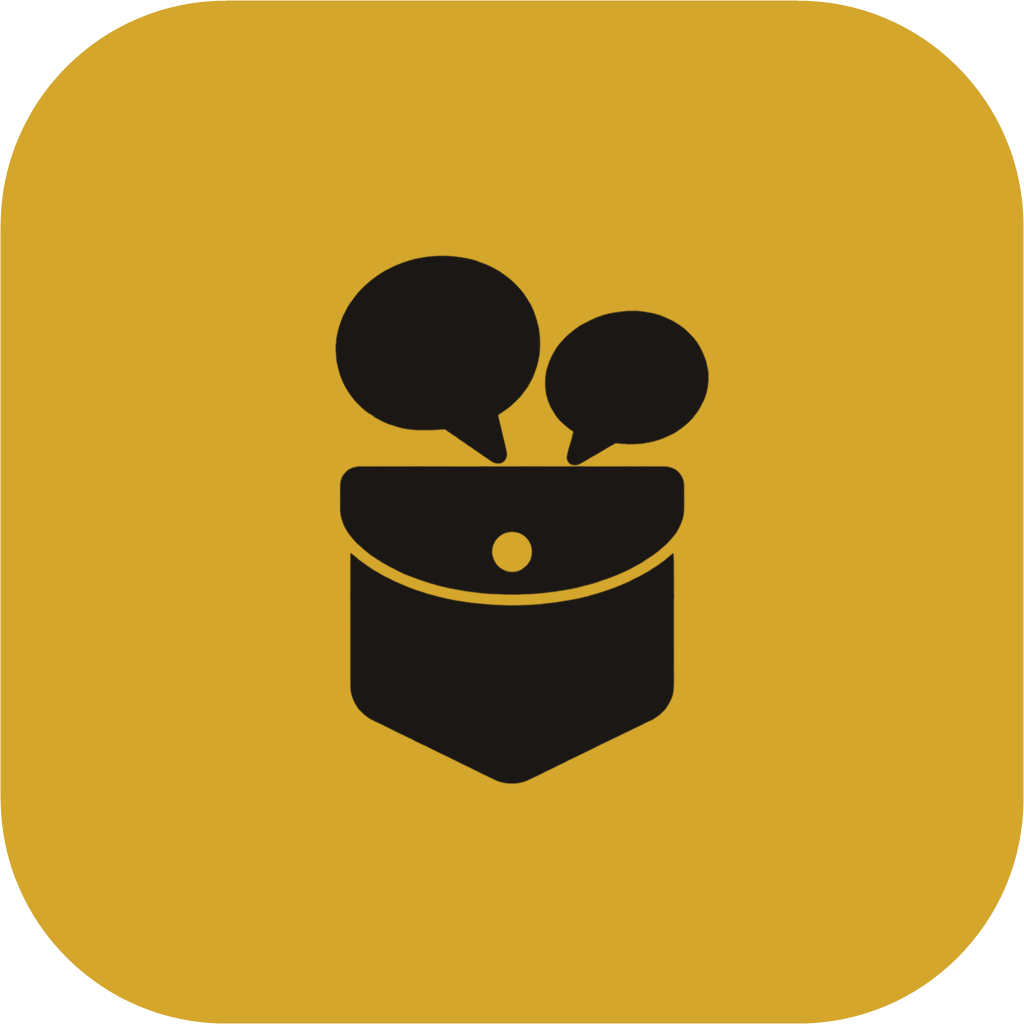
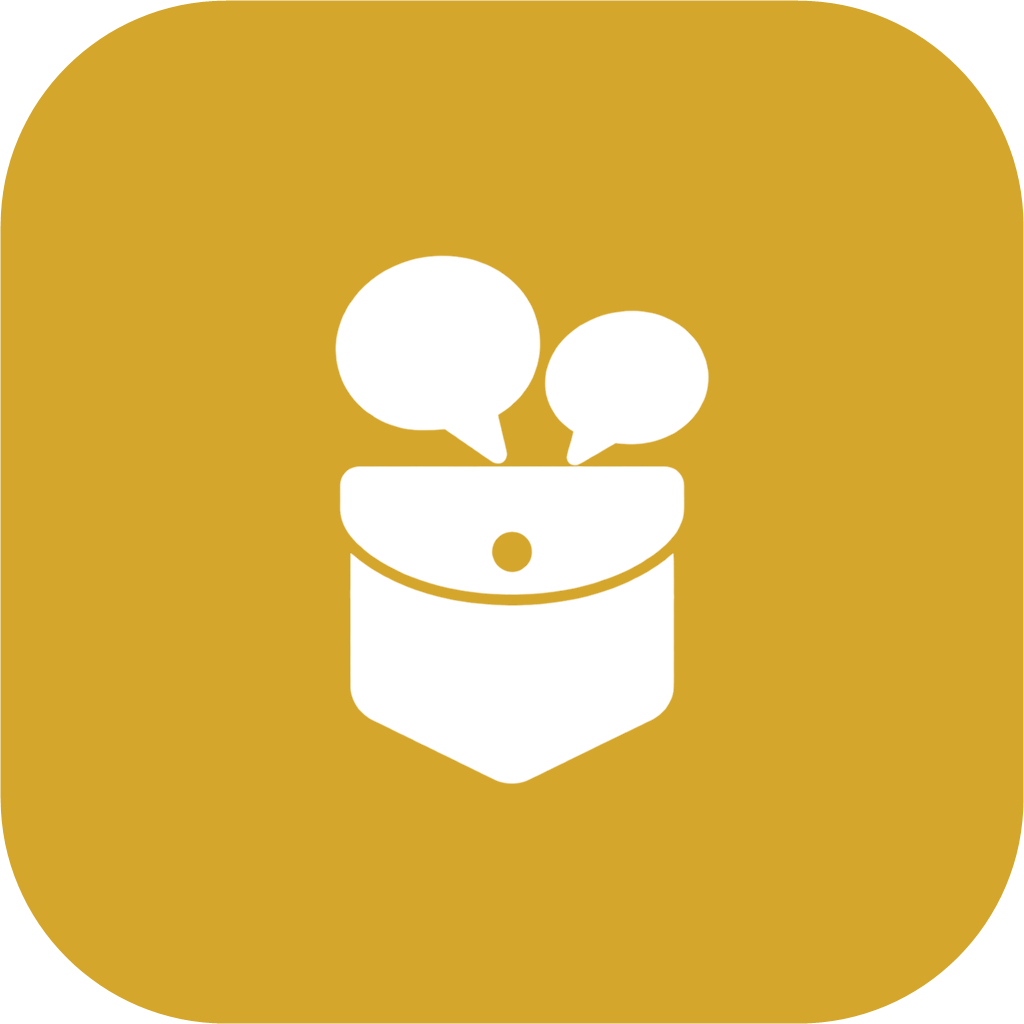
Use the light mark and the real launcher class.
The home icon and cold start stayed on gold because the launcher component was built from the application id. Palette activities live in nie.translator.rtranslator. Every icon now uses the light mark on its palette color.

Changed region(s): [[0.3125, 0.25, 0.7188, 0.7812]]

diff --git a/app/src/main/java/nie/translator/rtranslator/tools/ThemeManager.java b/app/src/main/java/nie/translator/rtranslator/tools/ThemeManager.java
@@ -23,7 +23,6 @@ import android.content.Context;
 import android.content.SharedPreferences;
 import android.content.pm.PackageManager;
 import android.content.res.ColorStateList;
-import android.content.res.Configuration;
 import android.graphics.Bitmap;
 import android.graphics.Canvas;
 import android.graphics.drawable.Drawable;
@@ -73,6 +72,11 @@ public final class ThemeManager {
 
     static final String LAUNCHER_GOLDEN = "LauncherGolden";
     static final String LAUNCHER_GOLDEN_ALT = "LauncherGoldenAlt";
+
+    // Manifest ".Launcher*" names resolve against the namespace, not applicationId.
+    // io.github.maoruiqa.transpocket.LauncherBamboo is not a component, so the home
+    // icon and the cold-start splash stay on the install-time golden activity.
+    static final String LAUNCHER_NAMESPACE = "nie.translator.rtranslator";
 
     // Index 0 is the install-time entry. Its manifest enabled value is true; every other entry is false.
     static final String[] LAUNCHER_CLASSES = new String[]{
@@ -132,7 +136,7 @@ public final class ThemeManager {
         try {
             for (int i = 0; i < LAUNCHER_CLASSES.length; i++) {
                 current[i] = packageManager.getComponentEnabledSetting(
-                        new ComponentName(packageName, packageName + "." + LAUNCHER_CLASSES[i]));
+                        launcherComponent(packageName, LAUNCHER_CLASSES[i]));
             }
         } catch (IllegalArgumentException ignored) {
             // Builds without these launcher activities must keep working; the theme is independent.
@@ -170,12 +174,20 @@ public final class ThemeManager {
     }
 
     /** Class name of the launcher activity for this palette. Must match the manifest component. */
-    public static String launcherClassName(String packageName, String palette) {
-        return launcherClassName(packageName, palette, false);
+    public static String launcherClassName(String palette) {
+        return launcherClassName(palette, false);
     }
 
-    public static String launcherClassName(String packageName, String palette, boolean goldenRetired) {
-        return packageName + "." + launcherSimpleName(palette, goldenRetired);
+    public static String launcherClassName(String palette, boolean goldenRetired) {
+        return LAUNCHER_NAMESPACE + "." + launcherSimpleName(palette, goldenRetired);
+    }
+
+    static String launcherComponentClass(String simpleName) {
+        return LAUNCHER_NAMESPACE + "." + simpleName;
+    }
+
+    static ComponentName launcherComponent(String applicationId, String simpleName) {
+        return new ComponentName(applicationId, launcherComponentClass(simpleName));
     }
 
     static String launcherSimpleName(String palette, boolean goldenRetired) {
@@ -274,7 +286,7 @@ public final class ThemeManager {
         }
         for (int i = 0; i < plan.classNames.length; i++) {
             packageManager.setComponentEnabledSetting(
-                    new ComponentName(packageName, packageName + "." + plan.classNames[i]),
+                    launcherComponent(packageName, plan.classNames[i]),
                     plan.states[i],
                     PackageManager.DONT_KILL_APP);
         }
@@ -287,7 +299,7 @@ public final class ThemeManager {
             ArrayList<PackageManager.ComponentEnabledSetting> settings = new ArrayList<>();
             for (int i = 0; i < plan.classNames.length; i++) {
                 settings.add(new PackageManager.ComponentEnabledSetting(
-                        new ComponentName(packageName, packageName + "." + plan.classNames[i]),
+                        launcherComponent(packageName, plan.classNames[i]),
                         plan.states[i],
                         PackageManager.DONT_KILL_APP));
             }
@@ -398,9 +410,7 @@ public final class ThemeManager {
     }
 
     private static Bitmap taskIconBitmap(Context context, String palette, @DrawableRes int iconRes) {
-        // The same mipmap id resolves to the dark mark or the light mark from uiMode.
-        int night = context.getResources().getConfiguration().uiMode & Configuration.UI_MODE_NIGHT_MASK;
-        String key = normalizePalette(palette) + "@" + context.getResources().getDisplayMetrics().density + "@" + night;
+        String key = normalizePalette(palette) + "@" + context.getResources().getDisplayMetrics().density;
         Bitmap cached = taskIcons.get(key);
         if (cached != null && !cached.isRecycled()) {
             return cached;

diff --git a/app/src/test/java/nie/translator/rtranslator/tools/ThemeManagerTest.java b/app/src/test/java/nie/translator/rtranslator/tools/ThemeManagerTest.java
@@ -51,15 +51,32 @@ public class ThemeManagerTest {
 
     @Test
     public void launcherClassNameMatchesManifestComponents() {
-        String pkg = "nie.translator.rtranslator";
-        assertEquals(pkg + ".LauncherGolden", ThemeManager.launcherClassName(pkg, ThemeManager.PALETTE_GOLDEN));
-        assertEquals(pkg + ".LauncherBamboo", ThemeManager.launcherClassName(pkg, ThemeManager.PALETTE_BAMBOO));
-        assertEquals(pkg + ".LauncherIndigo", ThemeManager.launcherClassName(pkg, ThemeManager.PALETTE_INDIGO));
-        assertEquals(pkg + ".LauncherSakura", ThemeManager.launcherClassName(pkg, ThemeManager.PALETTE_SAKURA));
-        assertEquals(pkg + ".LauncherWisteria", ThemeManager.launcherClassName(pkg, ThemeManager.PALETTE_WISTERIA));
-        assertEquals(pkg + ".LauncherGolden", ThemeManager.launcherClassName(pkg, "autumn_gold"));
-        assertEquals(pkg + ".LauncherGoldenAlt", ThemeManager.launcherClassName(pkg, ThemeManager.PALETTE_GOLDEN, true));
-        assertEquals(pkg + ".LauncherBamboo", ThemeManager.launcherClassName(pkg, ThemeManager.PALETTE_BAMBOO, true));
+        assertEquals("nie.translator.rtranslator.LauncherGolden",
+                ThemeManager.launcherClassName(ThemeManager.PALETTE_GOLDEN));
+        assertEquals("nie.translator.rtranslator.LauncherBamboo",
+                ThemeManager.launcherClassName(ThemeManager.PALETTE_BAMBOO));
+        assertEquals("nie.translator.rtranslator.LauncherIndigo",
+                ThemeManager.launcherClassName(ThemeManager.PALETTE_INDIGO));
+        assertEquals("nie.translator.rtranslator.LauncherSakura",
+                ThemeManager.launcherClassName(ThemeManager.PALETTE_SAKURA));
+        assertEquals("nie.translator.rtranslator.LauncherWisteria",
+                ThemeManager.launcherClassName(ThemeManager.PALETTE_WISTERIA));
+        assertEquals("nie.translator.rtranslator.LauncherGolden",
+                ThemeManager.launcherClassName("autumn_gold"));
+        assertEquals("nie.translator.rtranslator.LauncherGoldenAlt",
+                ThemeManager.launcherClassName(ThemeManager.PALETTE_GOLDEN, true));
+        assertEquals("nie.translator.rtranslator.LauncherBamboo",
+                ThemeManager.launcherClassName(ThemeManager.PALETTE_BAMBOO, true));
+    }
+
+    @Test
+    public void launcherComponentClassStaysInTheNamespace() {
+        assertEquals("nie.translator.rtranslator.LauncherBamboo",
+                ThemeManager.launcherComponentClass("LauncherBamboo"));
+        assertEquals("nie.translator.rtranslator.LauncherGolden",
+                ThemeManager.launcherComponentClass(ThemeManager.LAUNCHER_GOLDEN));
+        assertFalse("io.github.maoruiqa.transpocket.LauncherBamboo"
+                .equals(ThemeManager.launcherComponentClass("LauncherBamboo")));
     }
 
     @Test

diff --git a/README.md b/README.md
@@ -27,7 +27,7 @@ These are the changes in this repository relative to upstream RTranslator 3.0.0-
 - Speech recognition can be Whisper Small, Whisper Large V3 Turbo, Qwen3-ASR 0.6B, or Qwen3-ASR 1.7B. The 1.7B model needs a phone with about 8 GB of memory.
 - Speech uses the phone's system text-to-speech engine. A sentence is spoken as soon as it is finished, and the next sentence waits in a queue. The whole passage is not synthesized in one request. With Bluetooth headphones, the media route is kept awake so the start of a sentence is not eaten by headphone sleep.
 - Model downloads continue after the app leaves the foreground. Loading and switching models show stage progress.
-- Five palettes: autumn gold, bamboo, indigo, sakura, and wisteria. Changing the palette also changes the launcher icon and the cold-start screen. Each icon has two marks. Light mode uses the dark mark. Dark mode uses the light mark. The palette color stays the background.
+- Five palettes: autumn gold, bamboo, indigo, sakura, and wisteria. Changing the palette also changes the launcher icon and the cold-start screen. Every icon uses the light mark on that palette color.
 - The displayed name is TransPocket.
 
 The dictionary, the Tatoeba sentence bank, and beam search remain part of text-translation quality. Voice modes use a beam width of 1. Do not change `EOS_PENALTY`, `WORD_REWARD`, `LENGTH_ALPHA`, `SIBLING_PENALTY`, or the beam width without a quality comparison.
